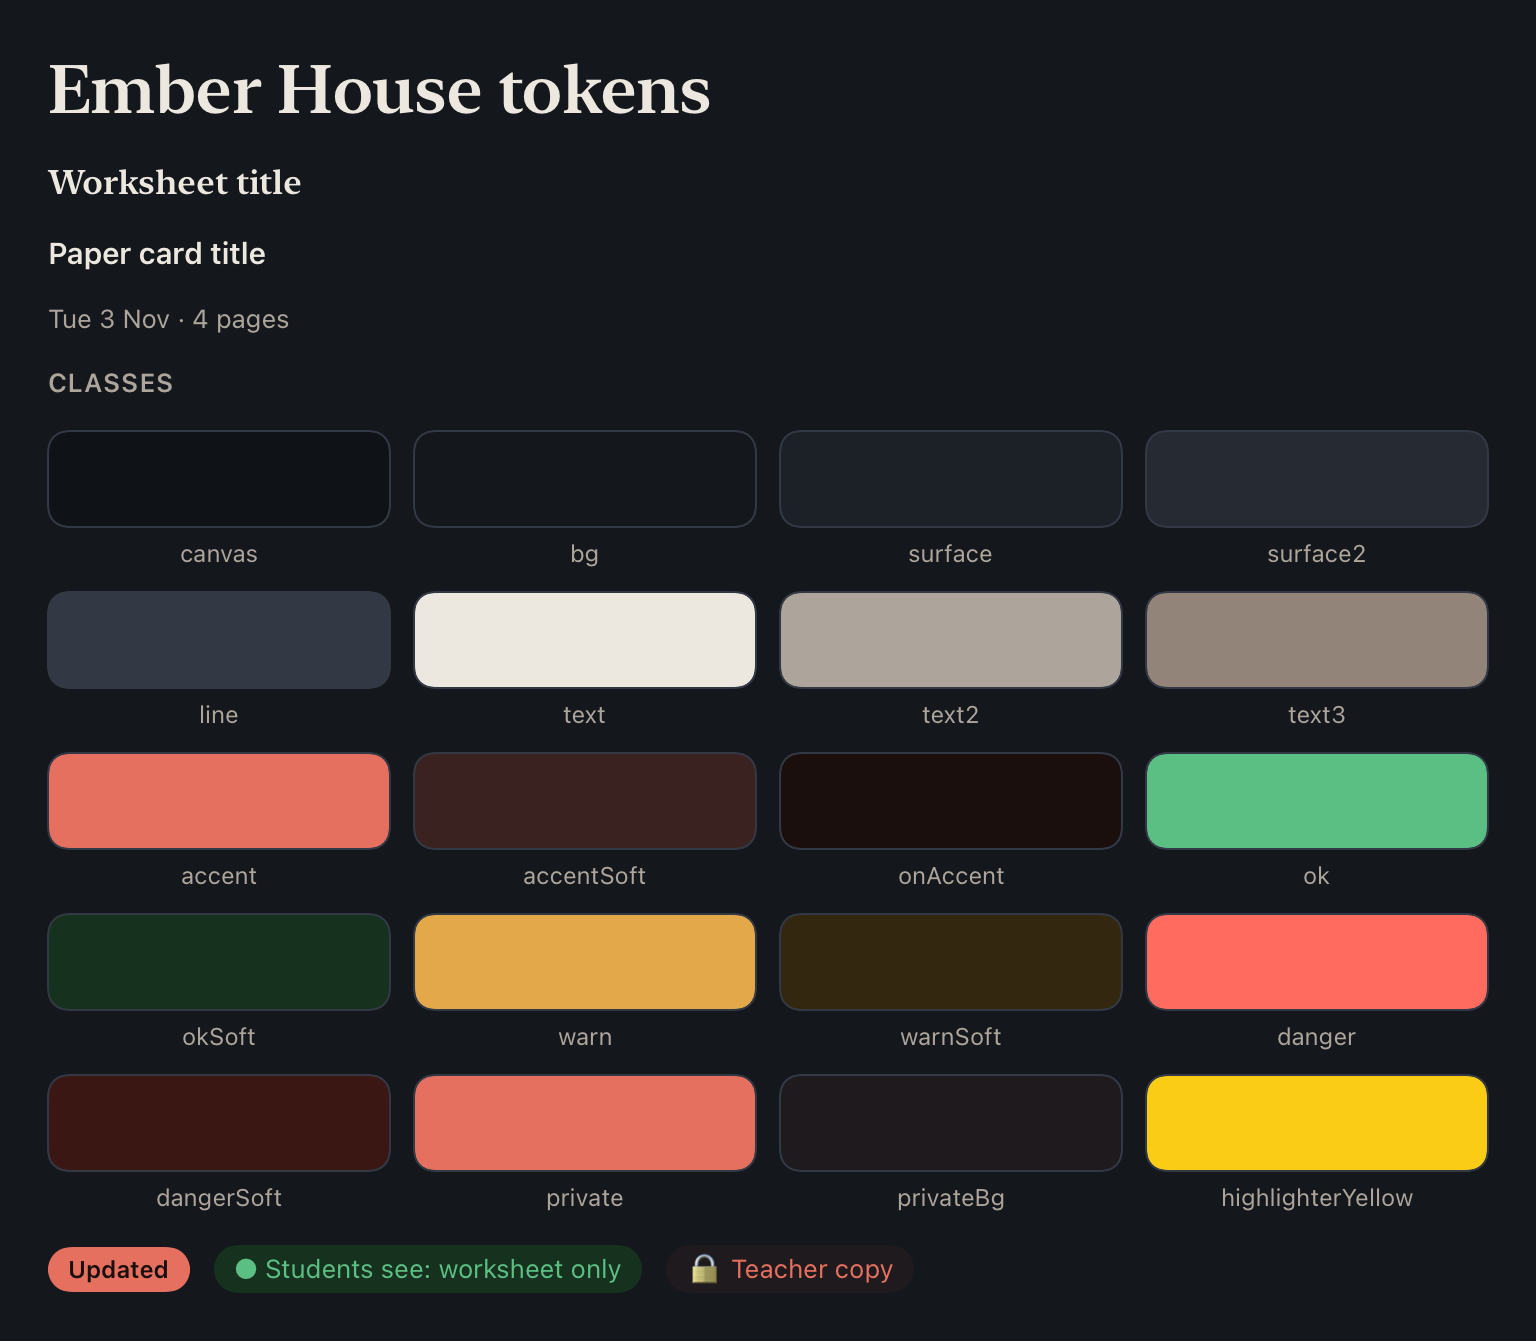
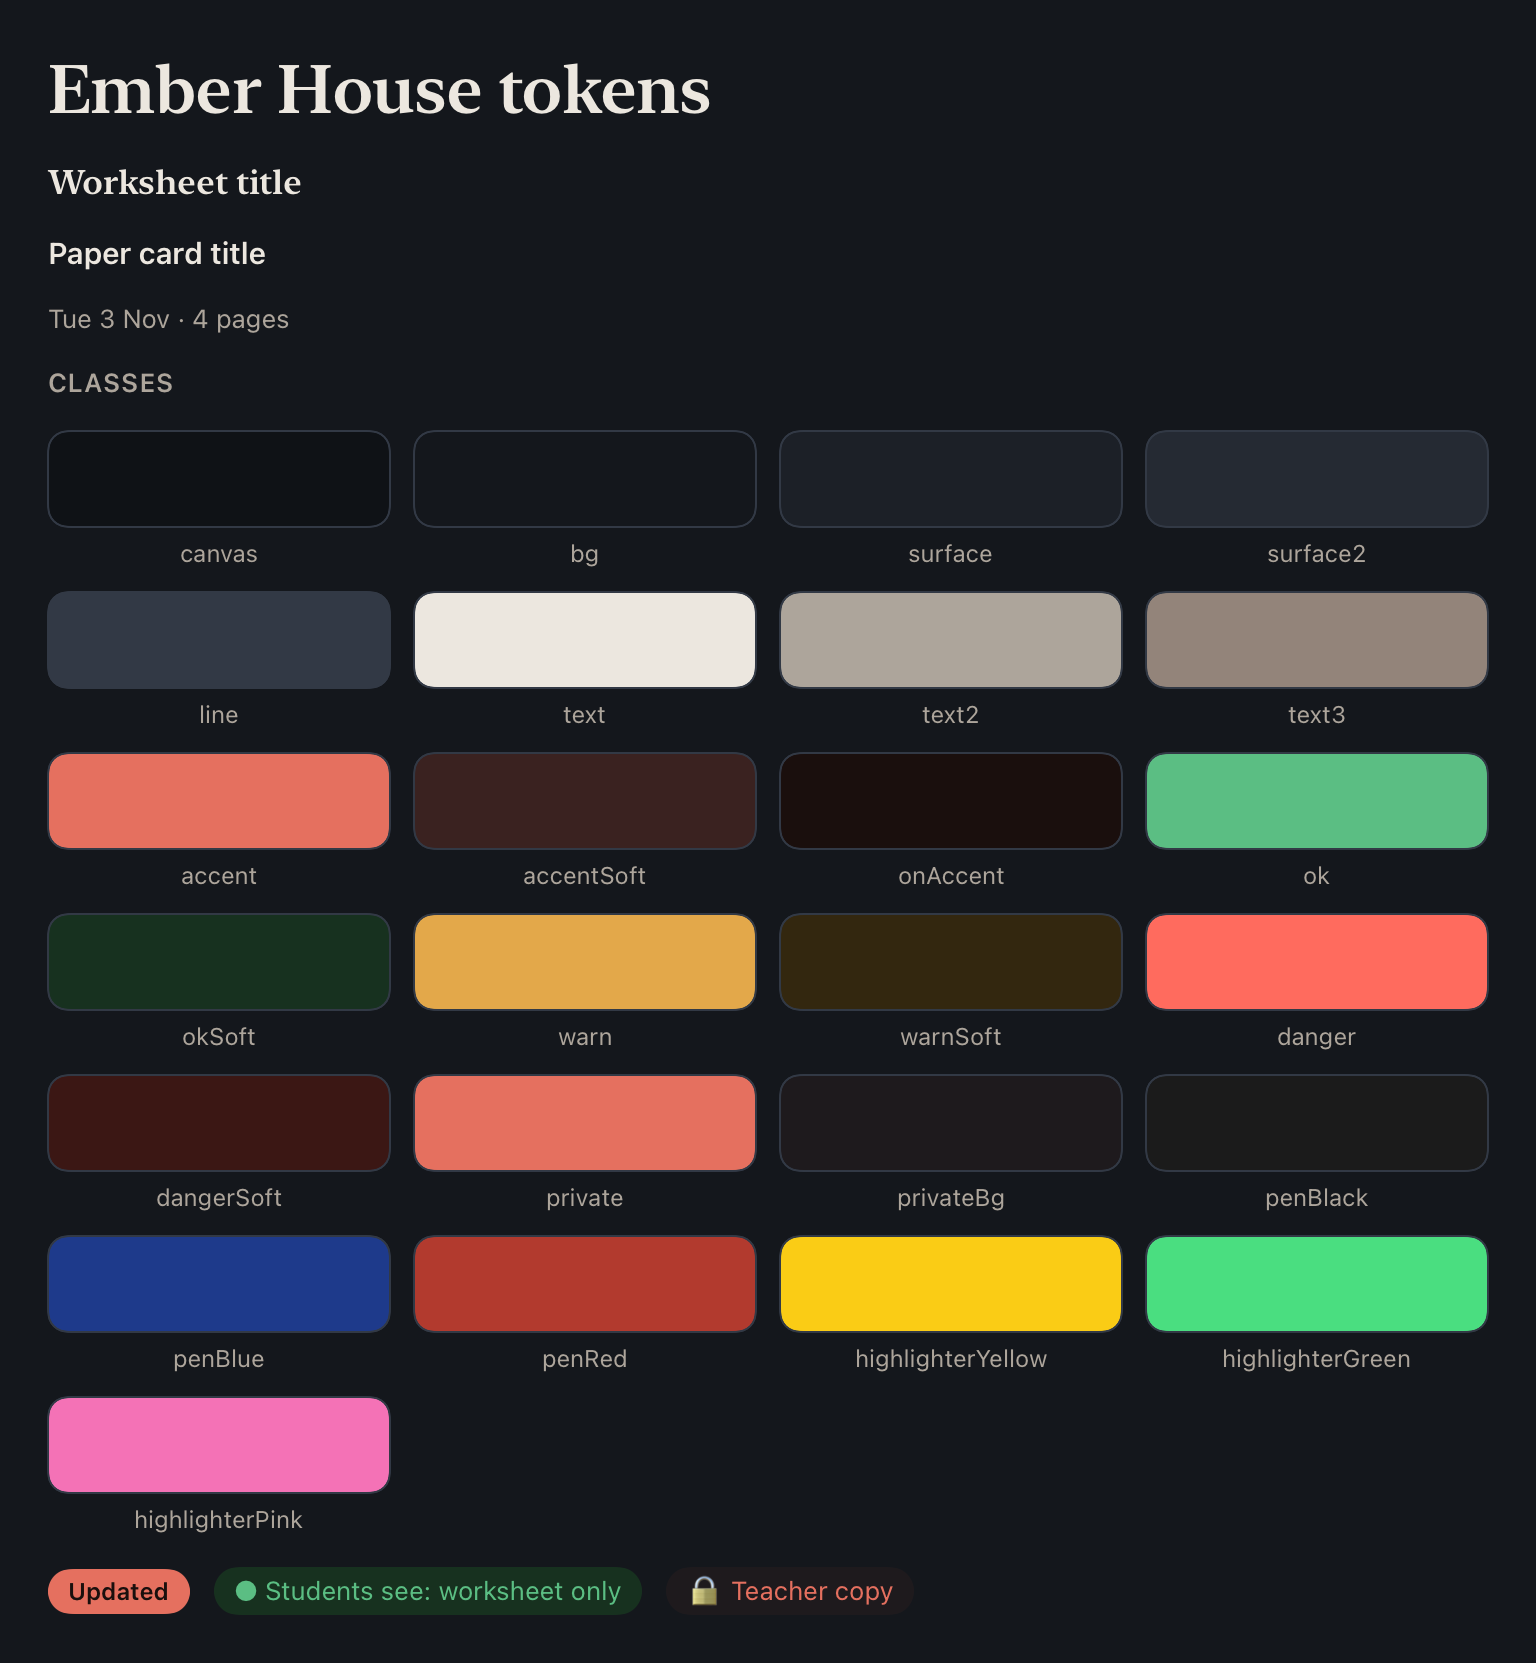
no-mistakes(review): Refreshed token screenshots and removed redundant Color aliases

diff --git a/Apps/EmberPad/Theme.swift b/Apps/EmberPad/Theme.swift
@@ -5,7 +5,7 @@ import SwiftUI
 /// only the chrome tokens below change.
 ///
 /// Theme tokens resolve through `Assets.xcassets` (Any/Dark appearances per
-/// themed token). Use `Theme.*` / `Color.ember*` / `UIColor.ember*` for them.
+/// themed token). Use `Theme.*` / `UIColor.ember*` for them.
 enum ThemeToken: String, CaseIterable, Sendable {
     case canvas
     case bg
@@ -145,34 +145,6 @@ enum Theme {
     static func applyAppearance() {
         UIView.appearance().tintColor = ThemeToken.accent.uiColor
     }
-}
-
-extension Color {
-    static let emberCanvas = ThemeToken.canvas.color
-    static let emberBg = ThemeToken.bg.color
-    static let emberSurface = ThemeToken.surface.color
-    static let emberSurface2 = ThemeToken.surface2.color
-    static let emberLine = ThemeToken.line.color
-    static let emberText = ThemeToken.text.color
-    static let emberText2 = ThemeToken.text2.color
-    static let emberText3 = ThemeToken.text3.color
-    static let emberAccent = ThemeToken.accent.color
-    static let emberAccentSoft = ThemeToken.accentSoft.color
-    static let emberOnAccent = ThemeToken.onAccent.color
-    static let emberOk = ThemeToken.ok.color
-    static let emberOkSoft = ThemeToken.okSoft.color
-    static let emberWarn = ThemeToken.warn.color
-    static let emberWarnSoft = ThemeToken.warnSoft.color
-    static let emberDanger = ThemeToken.danger.color
-    static let emberDangerSoft = ThemeToken.dangerSoft.color
-    static let emberPrivate = ThemeToken.privateBrand.color
-    static let emberPrivateBg = ThemeToken.privateBg.color
-    static let emberPenBlack = ThemeToken.penBlack.color
-    static let emberPenBlue = ThemeToken.penBlue.color
-    static let emberPenRed = ThemeToken.penRed.color
-    static let emberHighlighterYellow = ThemeToken.highlighterYellow.color
-    static let emberHighlighterGreen = ThemeToken.highlighterGreen.color
-    static let emberHighlighterPink = ThemeToken.highlighterPink.color
 }
 
 extension UIColor {
